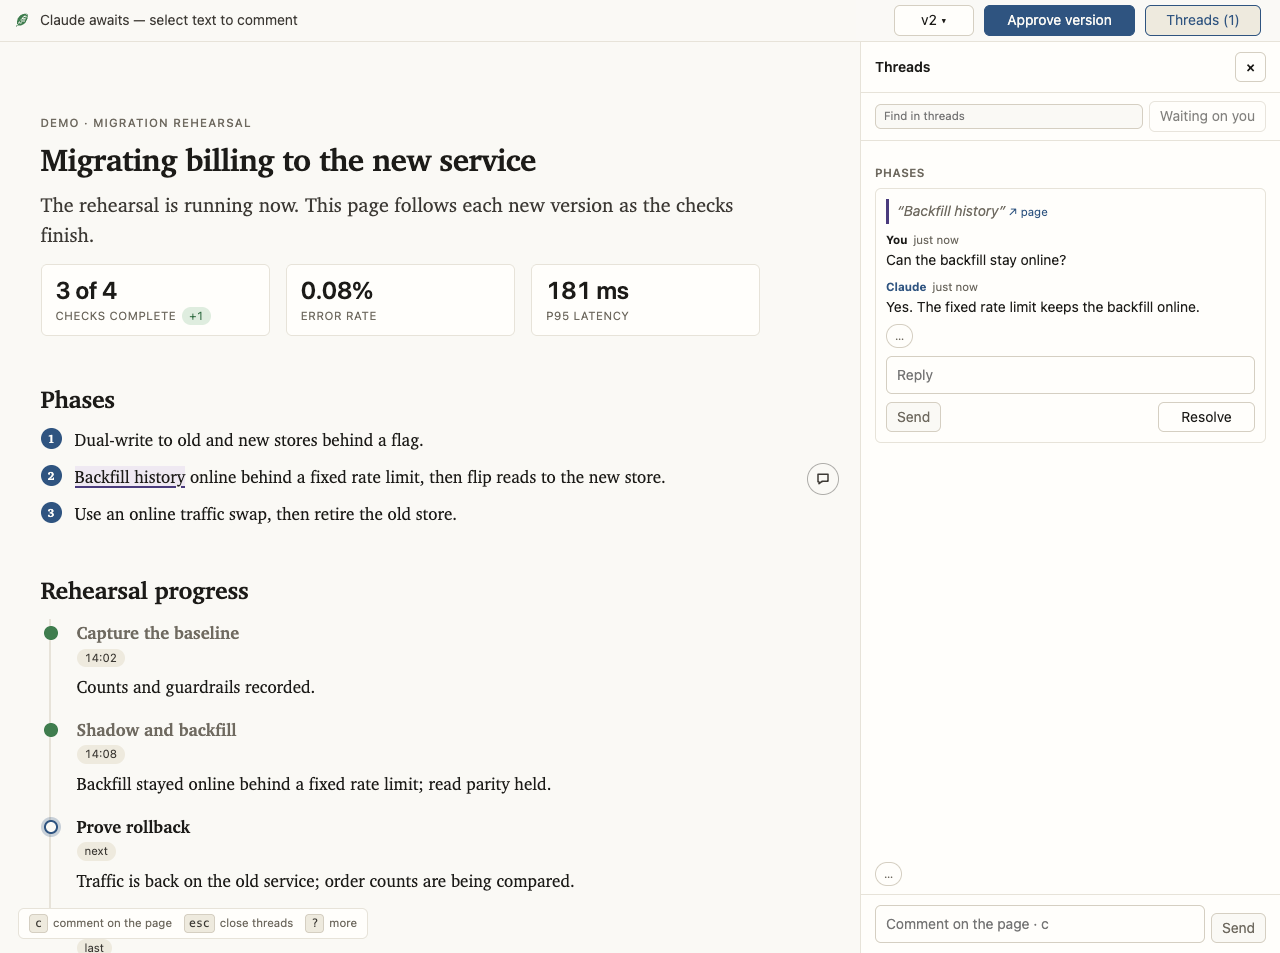
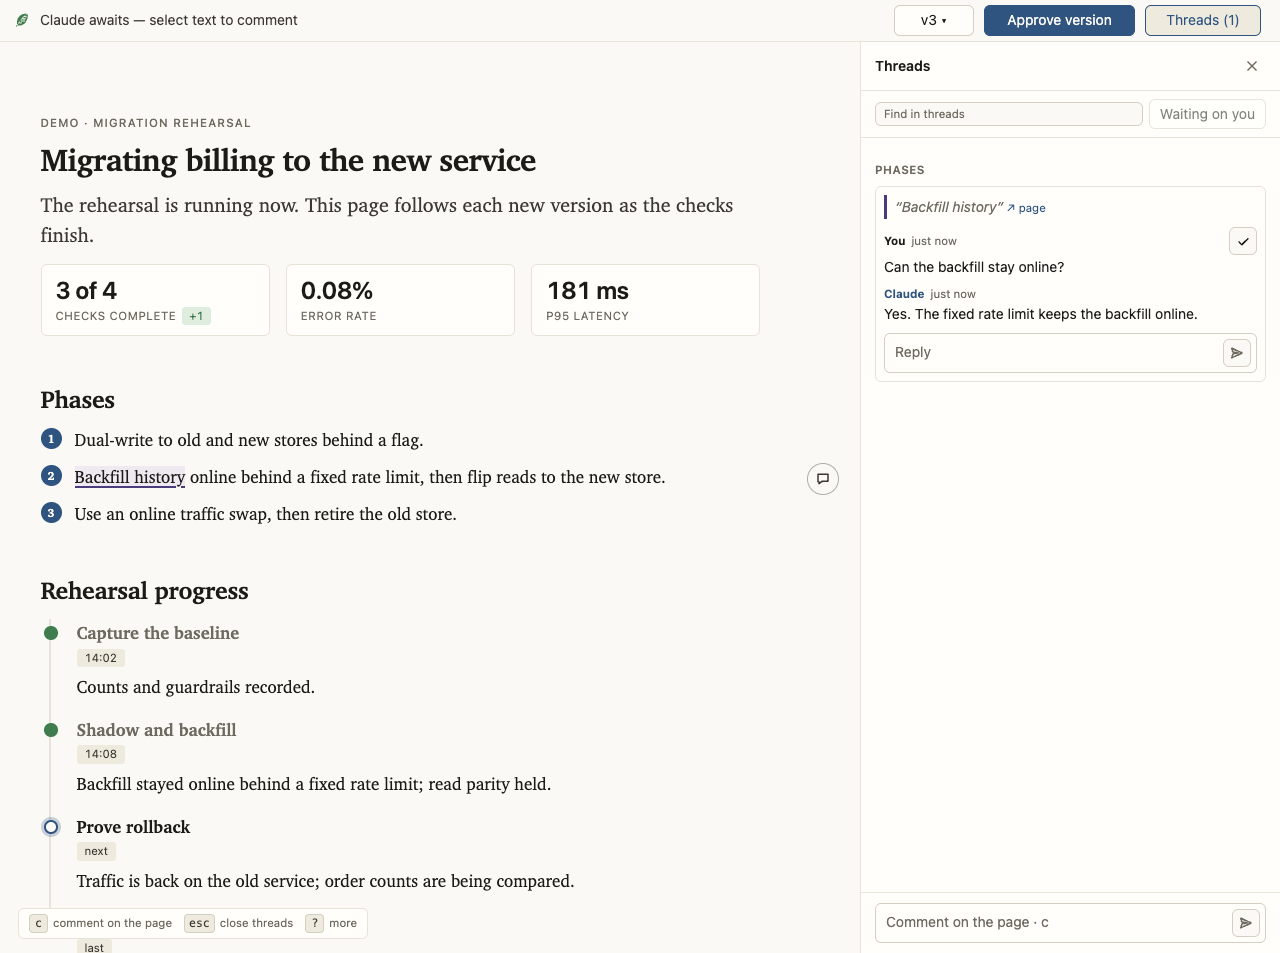
Refresh product media for rectangular actions

diff --git a/docs/index.html b/docs/index.html
@@ -23,7 +23,7 @@
       content="Generative UI for agents: the agent builds the page your task needs and answers your comments and edits over a messaging and collaboration bus."
     />
     <meta property="og:url" content="https://leaf.page/" />
-    <meta property="og:image" content="https://leaf.page/media/849ee440f3fa3b04.png" />
+    <meta property="og:image" content="https://leaf.page/media/f3883f5c8f6d6f19.png" />
     <meta name="twitter:card" content="summary_large_image" />
     <link rel="stylesheet" href="/theme.css" />
     <style>
@@ -87,18 +87,18 @@
         <picture>
           <source
             media="(prefers-color-scheme: dark)"
-            srcset="/media/cb38bea4a1835641.png"
+            srcset="/media/441bbbdb8abba87b.png"
           />
           <img
-            src="/media/849ee440f3fa3b04.png"
+            src="/media/f3883f5c8f6d6f19.png"
             alt="A live leaf in the browser: a migration plan with a comment anchored
 to a highlighted passage, Claude's reply in the thread, a version picker reading
-v2 (latest), and a banner reading 'Claude awaits'."
+v3 (latest), and a banner reading 'Claude awaits'."
           />
         </picture>
         <figcaption>
           A leaf in flight. The user asked about a rollback edge case; Claude replied in
-          the thread and shipped v2 covering it. The picker holds each immutable version
+          the thread and shipped v3 covering it. The picker holds each immutable version
           with its changelog and a Δ that marks what changed since it, and the banner
           tracks whether Claude is working or waiting on you.
         </figcaption>
@@ -206,7 +206,7 @@ v2 (latest), and a banner reading 'Claude awaits'."
 
       <figure class="shot" id="loop-demo">
         <img
-          src="/media/63c9f291dbd21fb4.gif"
+          src="/media/7d09b9b9ff28b95a.gif"
           alt="A live leaf page. The user selects Backfill history and writes a
 comment while the passage stays highlighted. The agent replies, saves a new revision
 whose rehearsal count advances, and the user drags an on-call task to During."

diff --git a/skills/leaf/assets/runtime/composing/surface.js b/skills/leaf/assets/runtime/composing/surface.js
@@ -18,9 +18,9 @@
    without collapsing the browser selection; the reader can still copy
    the selection or use its native context menu, then enter the field with Comment. The
    field grows in place and never transfers text into a second composer card. A
-   one-line note is a pill. A longer one widens up to a readable 80ch and then wraps,
-   and grows into the available clear band before it scrolls; its corner stays the
-   pill's 16px rather than growing with the box, so the corner never reaches over the
+   one-line note uses the shared action corner. A longer one widens up to a readable
+   80ch and then wraps, and grows into the available clear band before it scrolls; its
+   corner stays fixed rather than growing with the box, so it never reaches over the
    first or last line. Placement states a float's room as `--lf-float-w` and
    `--lf-float-h`; the bar is capped by it and the field's `--lf-response-room`
    excludes its neighboring controls. The field's scroll extent supplies its desired

diff --git a/docs/how-it-works.html b/docs/how-it-works.html
@@ -23,7 +23,7 @@
       content="One local process, an append-only event log, host-specific wait loops, and a vendored theme-and-widget layer."
     />
     <meta property="og:url" content="https://leaf.page/how-it-works/" />
-    <meta property="og:image" content="https://leaf.page/media/849ee440f3fa3b04.png" />
+    <meta property="og:image" content="https://leaf.page/media/f3883f5c8f6d6f19.png" />
     <meta name="twitter:card" content="summary_large_image" />
     <link rel="stylesheet" href="/theme.css" />
     <script type="module" src="/leaf.js"></script>

diff --git a/docs/examples.html b/docs/examples.html
@@ -23,7 +23,7 @@
       content="A complete leaf page for each kind of work — a decision, an incident, a PR walkthrough, a live dashboard."
     />
     <meta property="og:url" content="https://leaf.page/examples/" />
-    <meta property="og:image" content="https://leaf.page/media/849ee440f3fa3b04.png" />
+    <meta property="og:image" content="https://leaf.page/media/f3883f5c8f6d6f19.png" />
     <meta name="twitter:card" content="summary_large_image" />
     <link rel="stylesheet" href="/theme.css" />
     <style>

diff --git a/docs/packages.html b/docs/packages.html
@@ -23,7 +23,7 @@
       content="Build a reusable theme or widget with the same package contract Leaf uses for its defaults."
     />
     <meta property="og:url" content="https://leaf.page/packages/" />
-    <meta property="og:image" content="https://leaf.page/media/849ee440f3fa3b04.png" />
+    <meta property="og:image" content="https://leaf.page/media/f3883f5c8f6d6f19.png" />
     <meta name="twitter:card" content="summary_large_image" />
     <link rel="stylesheet" href="/theme.css" />
     <style>

diff --git a/docs/registry.html b/docs/registry.html
@@ -23,7 +23,7 @@
       content="A generated, browsable reference for every x-* declaration in a Leaf registry."
     />
     <meta property="og:url" content="https://leaf.page/registry/" />
-    <meta property="og:image" content="https://leaf.page/media/849ee440f3fa3b04.png" />
+    <meta property="og:image" content="https://leaf.page/media/f3883f5c8f6d6f19.png" />
     <meta name="twitter:card" content="summary_large_image" />
     <link rel="stylesheet" href="/theme.css" />
     <style>
